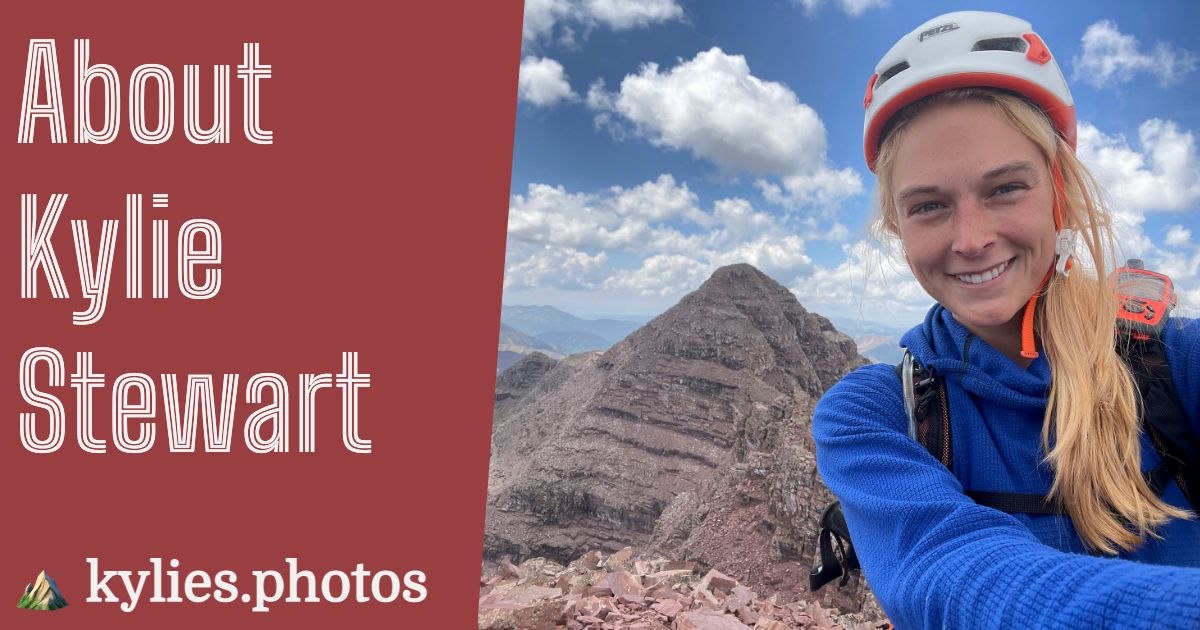
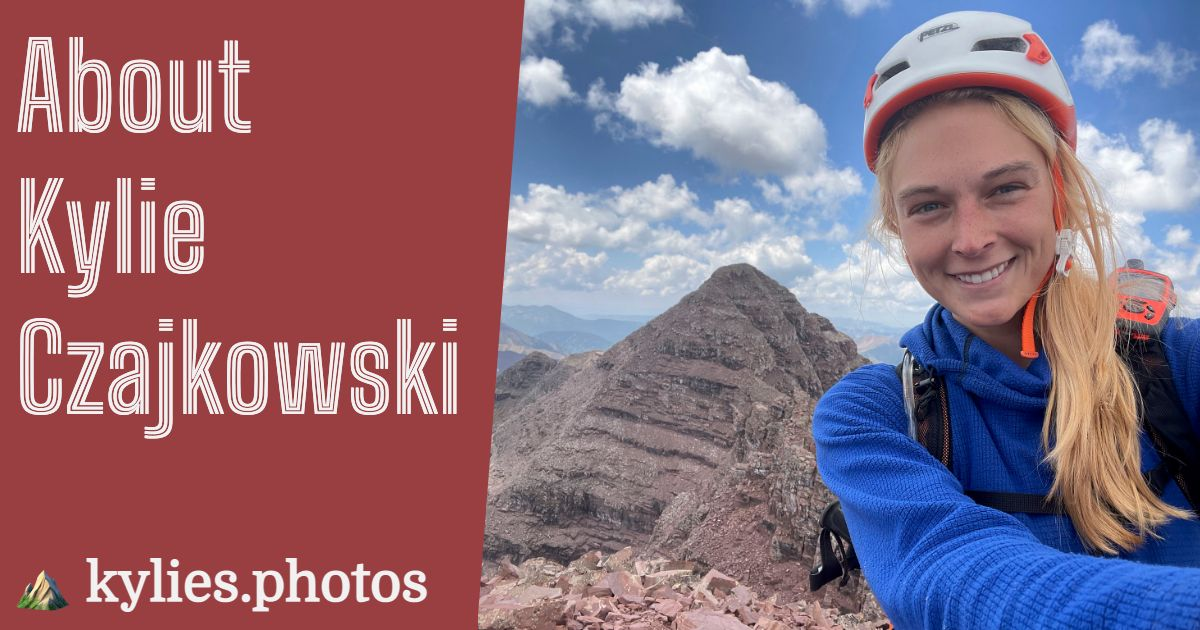
📜 Name and social handle updates

Changed region(s): [[0.0, 0.2714, 0.4008, 0.7238], [0.0, 0.0603, 0.2467, 0.2413]]

diff --git a/pages/about.js b/pages/about.js
@@ -28,19 +28,20 @@ const AboutPage = () => (
 
       <div className={styles.aboutBlockText}>
         <p>
-          {METADATA.FULL_NAME} is a web developer, avid hiker, mountaineer and
+          {METADATA.FULL_NAME} is a mountaineer, web developer, avid hiker, and
           photo-taker. She spends her time hiking Colorado's high peaks and researching
-          its terrain when she's not working from home or walking the dog with her fiancé.
+          its terrain when she's not working from home as web developer, or walking the
+          dog with her husband.
         </p>
         <p>
           Living in a small mountain town in the Colorado Rockies, {METADATA.FIRST_NAME}{' '}
-          spends a lot of her down time taking photos with her Sony Alpha 6400 and
-          traveling to nearby peaks to test out her longer range lenses.
+          spends a lot of her free time traveling to nearby peaks and taking photos with
+          her Sony Alpha 6400.
         </p>
         <p>
-          Although she is taking the first 5 months of 2022 off of hiking to recover from
-          ankle surgery, she's eager to make the most of this time off by testing out her
-          camera's features from handicap-accessible lots and 4WD trails across the state.
+          Although she is taking the first few months of 2022 off of hiking to recover
+          from ankle surgery, she's eager to make the most of this time off by testing out
+          her camera's features from trailhead lots and 4WD roads across the state.
         </p>
 
         <br />
@@ -48,7 +49,7 @@ const AboutPage = () => (
         <div>
           <p
             className={utilStyles.centerTextForMobile}
-            style={{ fontStyle: 'italic', fontSize: '14px' }}
+            style={{ fontStyle: 'italic', fontSize: '0.9rem' }}
           >
             {METADATA.FIRST_NAME} is an ambassador for...
           </p>
@@ -68,9 +69,10 @@ const AboutPage = () => (
         <h2 className={utilStyles.centerTextForMobile}>📬 Get in Touch</h2>
         <p className={styles.formCaption}>
           To stay up to date with {METADATA.FIRST_NAME}'s climbs, follow her{' '}
-          <a href="https://www.instagram.com/kalestews/">on Instagram</a>. To see some of
-          her other projects, visit her <a href="https://kylieis.online">personal site</a>
-          . To discuss working together, or to just say hi, use the following form:
+          <a href="https://www.instagram.com/kalestewski/">on Instagram</a>. To see some
+          of her other projects, visit her{' '}
+          <a href="https://kylieis.online">personal site</a>. To discuss working together,
+          or to just say hi, use the following form:
         </p>
         <ContactForm />
       </div>

diff --git a/pages/index.js b/pages/index.js
@@ -1,6 +1,7 @@
-import styled from '@emotion/styled'
-import PostPreview from '../components/PostPreview'
 import Layout from '../components/Layout'
+import Link from 'next/link'
+import PostPreview from '../components/PostPreview'
+import styled from '@emotion/styled'
 import { METADATA, PREVIEW_CARD_COLORS, PREVIEW_IMAGES } from '../utils/constants'
 import { getRecentPosts } from '../utils/data/posts'
 import { socialImage } from '../utils/social-image'
@@ -28,9 +29,26 @@ const GradientBottomImage = styled.div`
   margin-top: 5vh;
 `
 
+const IntroParagraph = styled.div`
+  font-size: 1.3rem;
+  font-style: italic;
+  max-width: 40%;
+  margin: 1rem auto 3rem auto;
+  text-align: center;
+  @media (max-width: 1024px) {
+    max-width: 90%;
+    font-size: 1.5rem;
+  }
+`
+
 const HomePage = ({ featuredPosts }) => (
   <Layout home>
     <GradientTopImage />
+    <IntroParagraph>
+      {METADATA.FIRST_NAME} is an avid hiker, web developer, mountaineer, and photo-taker
+      that spends her time hiking Colorado's high peaks and researching its terrain. Read
+      more about her <Link href="/about">here</Link>.
+    </IntroParagraph>
     <h1 className={`${utilStyles.heading2Xl} ${utilStyles.centerText}`}>Recent Posts</h1>
     <div className={styles.recentPosts}>
       {featuredPosts.map((post) => (

diff --git a/utils/constants.js b/utils/constants.js
@@ -1,6 +1,6 @@
 export const METADATA = {
   FIRST_NAME: 'Kylie',
-  FULL_NAME: 'Kylie Stewart',
+  FULL_NAME: 'Kylie Czajkowski',
   SITE_NAME: 'kylies.photos',
   SOURCE_CODE: 'https://github.com/kale-stew/climb-log',
   TWITTER_HANDLE: 'kyliestew',
@@ -36,7 +36,7 @@ export const BRANDS = [
     name: 'Goodr',
     href: 'https://goodr.com',
     description:
-      'Affordable and functional nonslip sunglasses, made for everybody by runners.',
+      'Extremely functional and affordable nonslip sunglasses made to be worn everywhere, from high peaks to the dog park to the local brewery.',
   },
   {
     name: 'Notion.so',
@@ -60,7 +60,7 @@ export const CATEGORY_TYPE = {
 }
 
 export const CONNECT = [
-  { title: 'Instagram', href: 'https://www.instagram.com/kalestews/' },
+  { title: 'Instagram', href: 'https://www.instagram.com/kalestewski/' },
   { title: 'AllTrails', href: 'https://www.alltrails.com/members/kylie-stewart-1' },
   { title: 'Strava', href: 'https://www.strava.com/athletes/46336787' },
   {

diff --git a/pages/[category]/[id].js b/pages/[category]/[id].js
@@ -3,7 +3,7 @@ import Category from '../../components/Category'
 import FormattedDate from '../../components/Date'
 import Layout from '../../components/Layout'
 import ShareButton from '../../components/ShareButton'
-import { PREVIEW_CARD_COLORS } from '../../utils/constants'
+import { METADATA, PREVIEW_CARD_COLORS } from '../../utils/constants'
 import { buildNavigation } from '../../components/BlogNavigation'
 import { getAllPostIds, getPostData, getSortedPostsData } from '../../utils/data/posts'
 import { socialImage } from '../../utils/social-image'
@@ -46,7 +46,7 @@ export async function getStaticProps({ params }) {
   const postData = await getPostData(params.category, params.id)
   const postIds = getSortedPostsData()
   const title = postData.title
-  const description = 'by Kylie Stewart'
+  const description = `by ${METADATA.FULL_NAME}`
 
   return {
     props: {

diff --git a/pages/climb-log.js b/pages/climb-log.js
@@ -229,7 +229,7 @@ const ClimbLog = ({ allClimbs }) => {
       {/* This 'blanket' div allows us to dim the background on popup using css 🙌🏻 */}
       <div className={blanketEnabled ? tableStyles.blanket : ''}></div>
       <h1 className={`${utilStyles.centerText} ${utilStyles.headingXl}`}>
-        Kylie's Climb Log
+        {METADATA.FIRST_NAME}'s Climb Log
       </h1>
       <Table
         allAreas={allAreas}

diff --git a/next.config.js b/next.config.js
@@ -8,7 +8,11 @@ module.exports = {
     NOTION_PHOTO_DATABASE_ID: process.env.NOTION_PHOTO_DATABASE_ID,
   },
   images: {
-    domains: ['s3.us-west-2.amazonaws.com', 'live.staticflickr.com'],
+    domains: [
+      's3.us-west-2.amazonaws.com',
+      'live.staticflickr.com',
+      'raw.githubusercontent.com',
+    ],
   },
   async redirects() {
     return [
